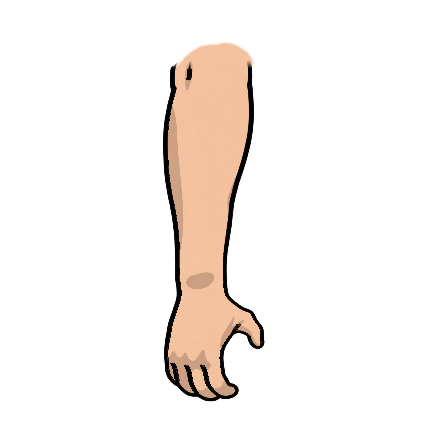
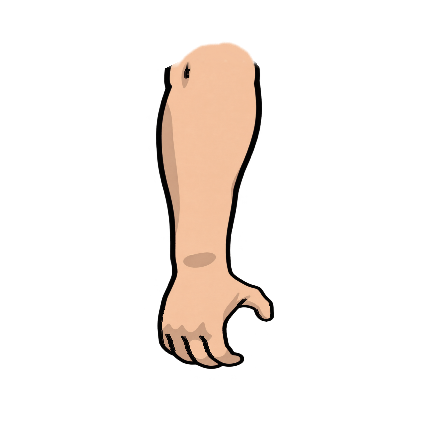
PLAN_GRAPPLES T2.1b: clasp forearms fitted to each rig's working arm (palm on the grip's clutch row, shaft to the base width); comparison sheets
Width ratios Lou 1.31/1.00/1.35, George 1.16/0.94/1.17; length 0.89-0.94. Lou elbowCup width capped by the canvas.
Palm to target with today's wrist IK: Lou 4.4-6.3 px, George 12.7-16.3 px (was 1.8-3.9 / 16.6-21.5).

Changed region(s): [[0.3662, 0.1185, 0.6408, 0.918]]

diff --git a/PLAN_GRAPPLES.md b/PLAN_GRAPPLES.md
@@ -121,6 +121,7 @@ Handoff: [2026-10-29-claude-grapples-handoff.md](AI_HANDOFF_ENTRIES/2026-10-29-c
 - Opus review of 4cc49fa (2026-11-07): suite 1258/1260 (corner-daze arms: the corner reuses the new load with 0.7 elbows), build, coverage 26. T3d.4 written, STOP at G3d-c.
 - T2.1 (Opus review of Codex T2.0): art + fit tools committed (this commit), `build_forearm_variant.mjs all --check` passes (caps 0 changed). Palm to target: Lou 1.8-3.9 px, George 16.6-21.5 px (wrist IK, not palm: T2.2's job).
   Misses: collarTie and waistClasp shafts 25-37% narrower than the base forearm at the same rows (Lou 55/43 vs 78/65 px, George 52 vs 83); elbowCup within 7-11%. Derek judges the stills; masters live in ignored `Sprite sheets/`.
+- T2.1b (Derek: fit to the working arm): `build_forearm_variant.mjs` scales each clasp about the elbow: length so the palm sits on the `grip` clutch row (Lou 279, George 344), width to the base shaft about the shaft's centre, 3 px inside the canvas. Shaft widths now base ±12% (Lou elbowCup capped at 1.0 by the canvas, 67 vs 78 px). Palm to target: Lou 4.4-6.3 px, George 12.7-16.3 px. [Sheet](research/art/clasps-2026-11/forearm-fit-before-after.png), [in ring](research/art/clasps-2026-11/in-ring-clasps-refit.png).
 - T3d r4: ece82fe (Derek's note), the rope launch hands the run equal arms (0.05/0.05, rest elbows; was -0.25/+0.3 and 1.0/0.9, flapping). Opus: launch only, the corner reads LOAD alone; focused 29/30 (the T3d.4 corner test).
 
 ## Why (Derek 2026-10-29)
